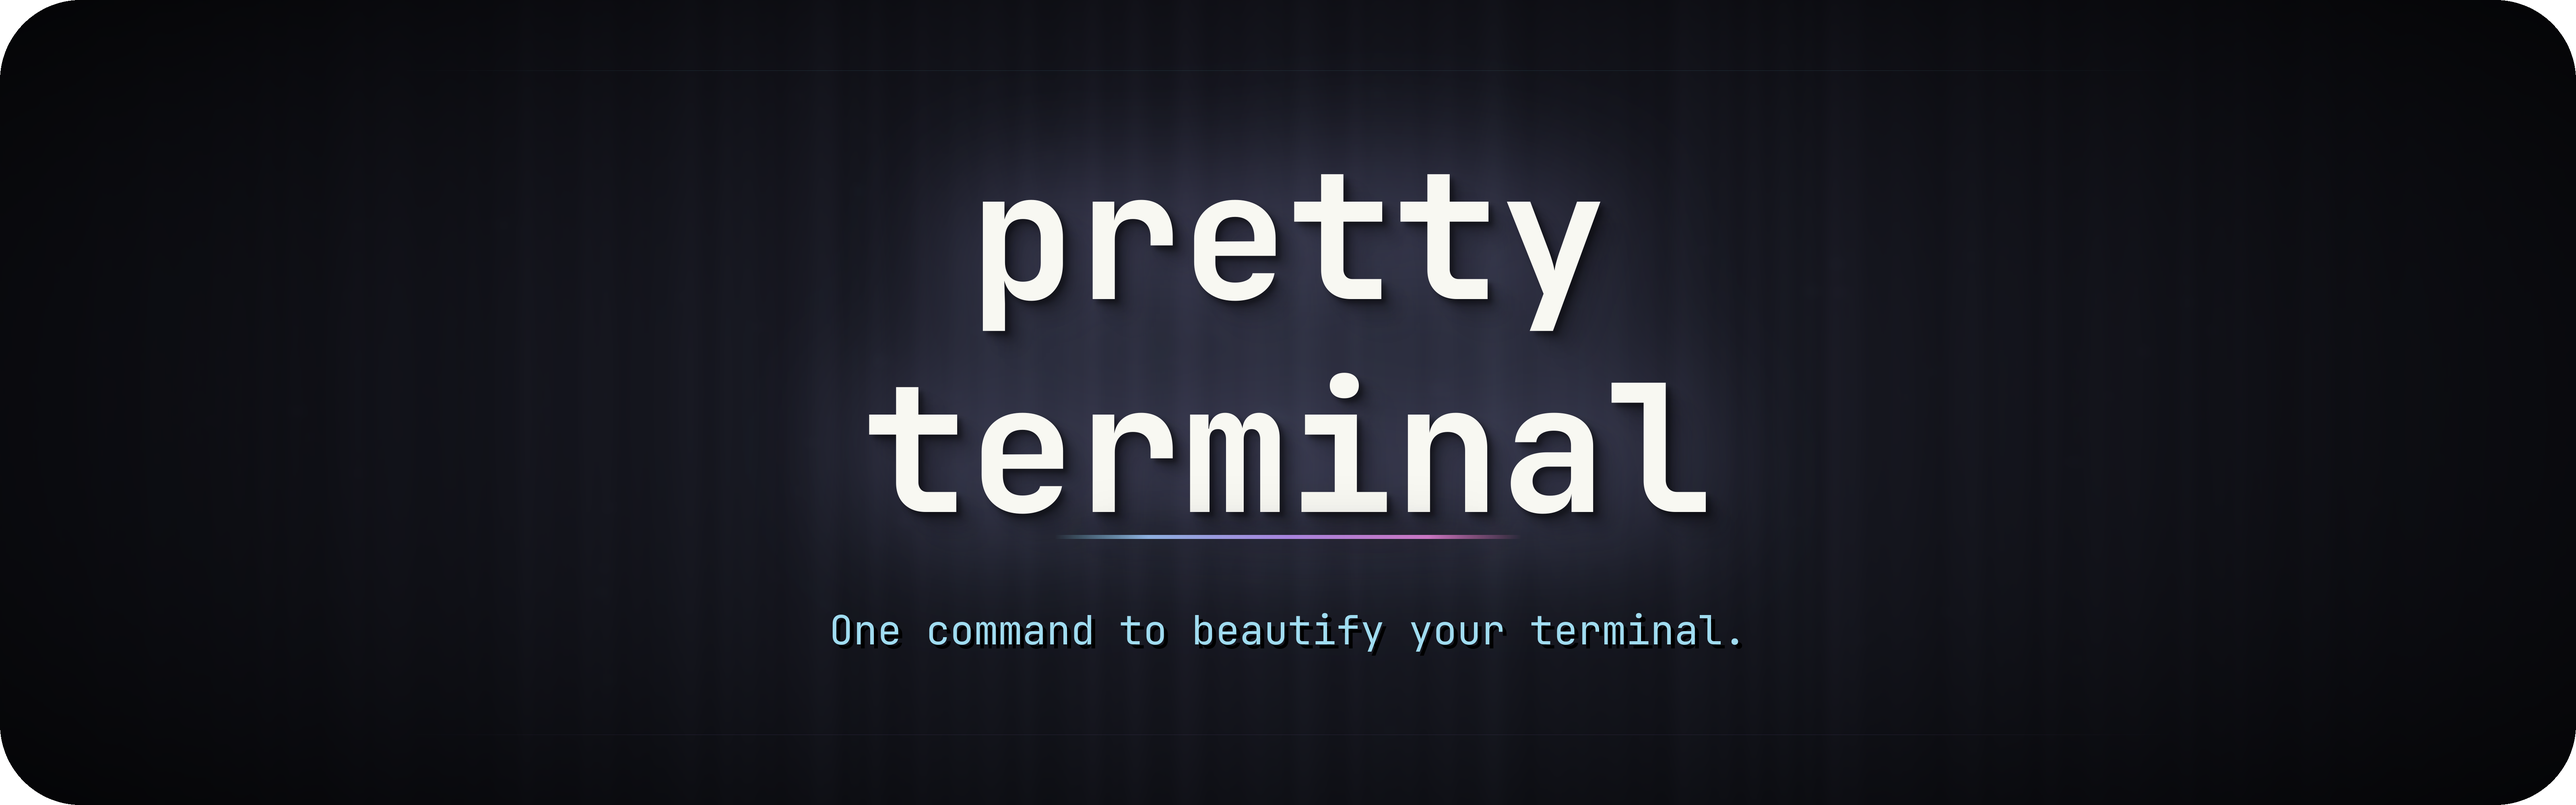
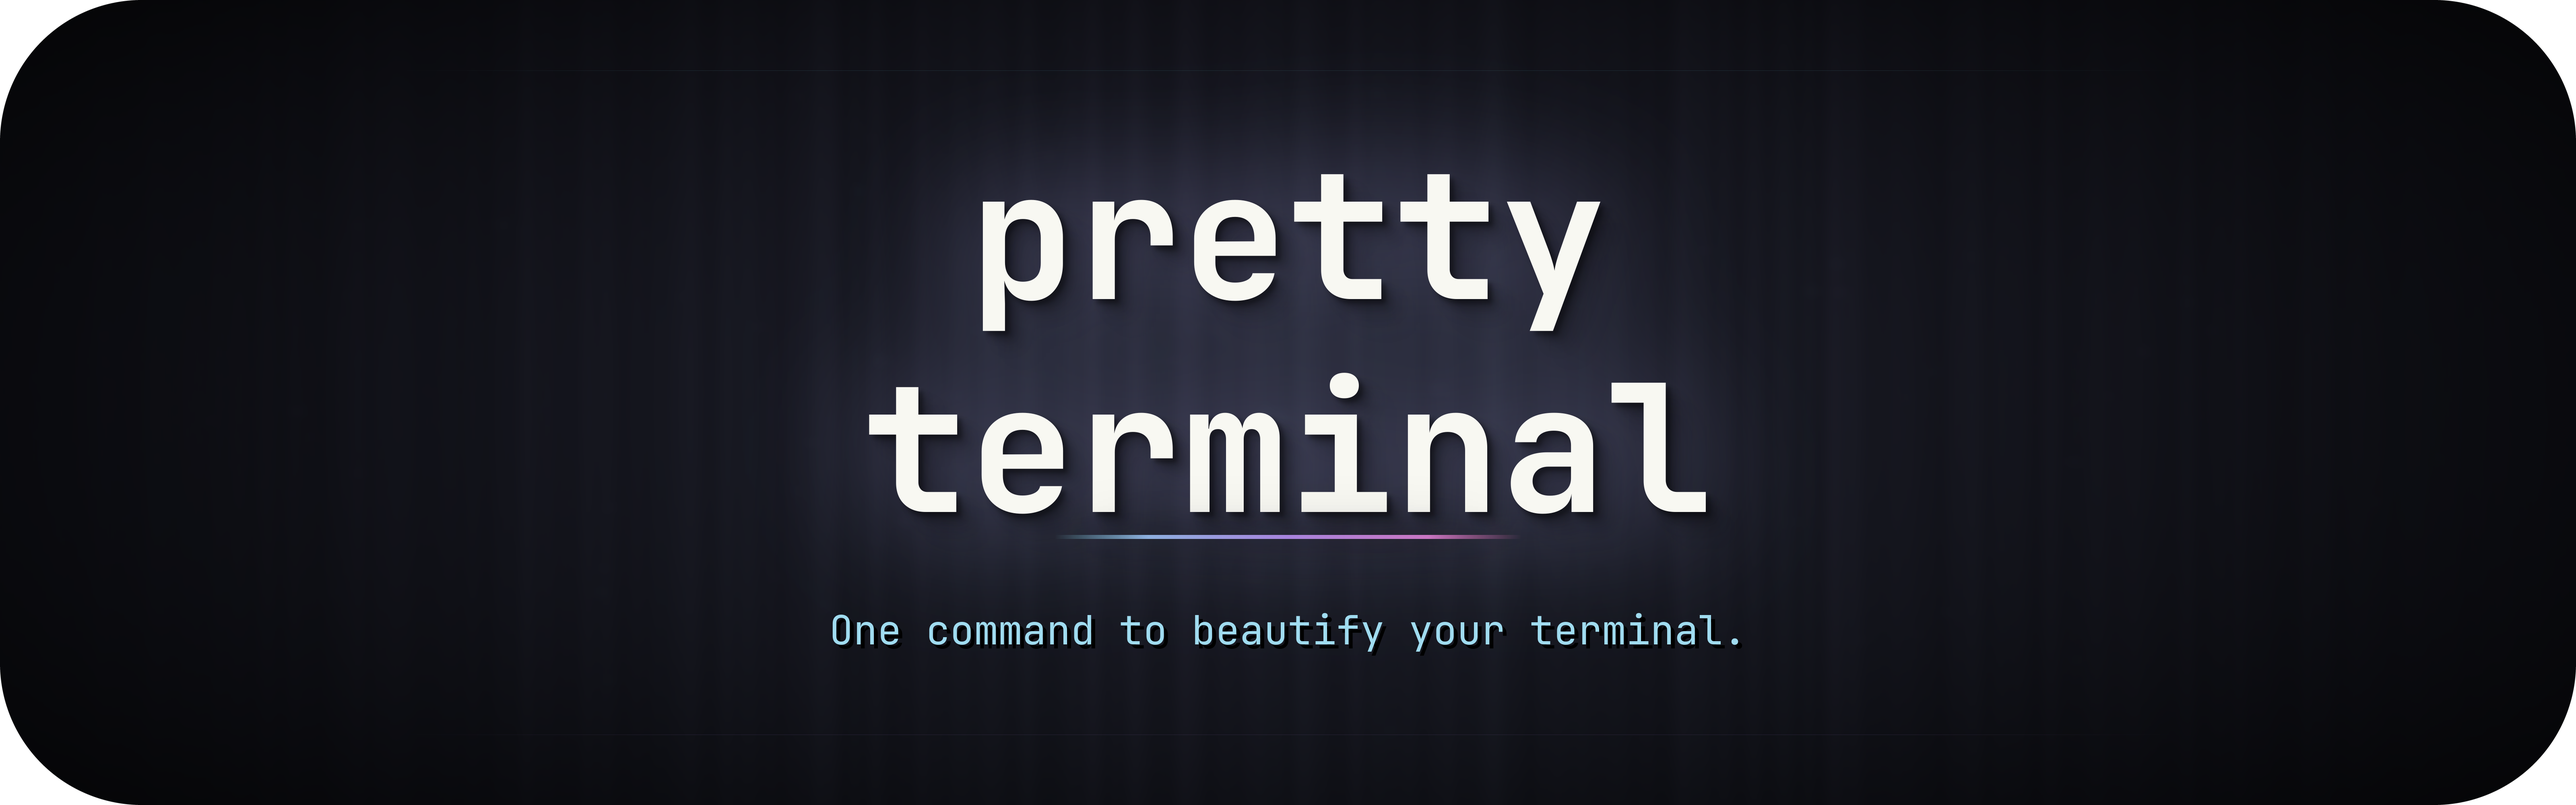
Redesign READMEs with rounded cover and Apple Silicon guide
Centered hero with a rounder cover (corner radius 2.8% -> 5.5% of width),
badge row, component table, emoji section labels and footer navigation in
both English and Korean. Add an Apple Silicon section (Rosetta re-launch,
native Homebrew first, x86_64 eza replacement) and an arm64 check to the
LLM quick-start prompt.

diff --git a/README.md b/README.md
@@ -1,25 +1,58 @@
+<a id="top"></a>
+
 <p align="center">
-  <img src="cover.png" alt="pretty-terminal" width="100%">
+  <img src="cover.png" alt="pretty-terminal: one command to beautify your terminal" width="100%">
 </p>
 
-# pretty-terminal
+<h1 align="center">pretty-terminal</h1>
 
-One command to make your terminal beautiful. Works on macOS, Windows, and Linux.
+<p align="center">
+  <em>One command to make your terminal beautiful. Works on macOS, Windows, and Linux.</em>
+</p>
 
-> **English** | [한국어](README.ko.md)
+<p align="center">
+  <b>English</b> | <a href="README.ko.md">한국어</a>
+</p>
 
-## What You Get
+<p align="center">
+  <a href="#quick-start"><b>Quick Start</b></a> ·
+  <a href="#what-you-get">What You Get</a> ·
+  <a href="#apple-silicon">Apple Silicon</a> ·
+  <a href="#customization">Customization</a> ·
+  <a href="#troubleshooting">Troubleshooting</a>
+</p>
 
-- **JetBrainsMono Nerd Font** — Beautiful monospace font with icon support (or D2CodingLigature Nerd Font Mono for Korean)
-- **eza** — Modern, colorful file listing with icons and tree view
-- **Oh My Zsh + Powerlevel10k** (macOS/Linux) — Clean, minimal prompt with git status
-- **Oh My Posh** (Windows) — Modern shell prompt with themes
+<p align="center">
+  <a href="https://github.com/wjgoarxiv/pretty-terminal"><img src="https://img.shields.io/github/stars/wjgoarxiv/pretty-terminal?style=flat-square&logo=github" alt="GitHub stars"></a>
+  <a href="./LICENSE"><img src="https://img.shields.io/github/license/wjgoarxiv/pretty-terminal?style=flat-square" alt="License"></a>
+  <img src="https://img.shields.io/badge/platform-macOS%20%7C%20Linux%20%7C%20Windows-blue?style=flat-square" alt="Platforms: macOS, Linux, Windows">
+  <img src="https://img.shields.io/badge/Apple%20Silicon-native%20arm64-black?style=flat-square&logo=apple&logoColor=white" alt="Apple Silicon: native arm64">
+</p>
+
+---
+
+<a id="what-you-get"></a>
+
+## ✨ What You Get
+
+| Component | What it adds |
+|-----------|--------------|
+| 🔤 **JetBrainsMono Nerd Font** | Beautiful monospace font with icon support (or D2CodingLigature Nerd Font Mono for Korean) |
+| 📂 **eza** | Modern, colorful file listing with icons and tree view |
+| 🐚 **Oh My Zsh + Powerlevel10k** (macOS/Linux) | Clean, minimal prompt with git status |
+| 🪟 **Oh My Posh** (Windows) | Modern shell prompt with themes |
+| 🍎 **Native on Apple Silicon** | Always installed as arm64, never x86_64 |
 
 <p align="center">
   <img src="preview.png" alt="Before and After" width="100%">
 </p>
 
-## Quick Start
+<a id="quick-start"></a>
+
+## 🚀 Quick Start
+
+> [!IMPORTANT]
+> **On an Apple Silicon Mac, everything is installed as native arm64 — never x86_64.** See [Apple Silicon](#apple-silicon).
 
 ### Using an LLM (Recommended)
 
@@ -27,6 +60,7 @@ Paste this into Claude, ChatGPT, or any AI assistant:
 
 ```
 Clone https://github.com/wjgoarxiv/pretty-terminal to my home directory and run the installer for my operating system.
+On an Apple Silicon Mac, run it natively: uname -m must print arm64, never x86_64.
 ```
 
 The AI will handle the rest automatically.
@@ -47,7 +81,28 @@ git clone https://github.com/wjgoarxiv/pretty-terminal.git $HOME\pretty-terminal
 
 After installation, restart your terminal.
 
-## What Gets Installed
+<a id="apple-silicon"></a>
+
+## 🍎 Apple Silicon
+
+On an Apple Silicon Mac the installer never sets up x86_64 binaries. It detects Apple Silicon from the hardware, not from the shell's architecture, so a Rosetta terminal does not lead to an Intel install.
+
+| Situation | What `install.sh` does |
+|-----------|------------------------|
+| Started from a Rosetta (x86_64) terminal | Re-launches itself with `arch -arm64` before installing anything |
+| Native Homebrew in `/opt/homebrew` exists | Puts it first in `PATH` for the installer run, even if an Intel Homebrew is also installed |
+| Only Intel Homebrew in `/usr/local` exists | Stops and asks you to install native Homebrew |
+| An x86_64 `eza` is already installed | Replaces it with a native build instead of skipping it |
+| Linux, Intel Macs, Windows | Nothing changes |
+
+Check your setup:
+
+```bash
+uname -m           # must print arm64
+brew --prefix      # should print /opt/homebrew
+```
+
+## 📦 What Gets Installed
 
 | Component | macOS | Linux | Windows |
 |-----------|:-----:|:-----:|:-------:|
@@ -57,7 +112,7 @@ After installation, restart your terminal.
 | Powerlevel10k | ✓ | ✓ | — |
 | Oh My Posh | — | — | ✓ |
 
-## Supported Terminals
+## 🖥 Supported Terminals
 
 - **macOS**: iTerm2, Ghostty (automatic config), Terminal.app (font auto-applied via AppleScript). Other terminals: set font manually in preferences.
 - **Linux**: Ghostty (automatic config applied); for GNOME Terminal, Konsole, and other terminals, set JetBrainsMono Nerd Font manually in your terminal preferences
@@ -65,7 +120,7 @@ After installation, restart your terminal.
 
 The installer detects your OS and installs components compatible with your system.
 
-## Installation Options
+## 🎛 Installation Options
 
 The installer provides these options (add as flags to `install.sh` or `install.ps1`):
 
@@ -88,7 +143,7 @@ bash ~/pretty-terminal/install.sh --font d2coding    # Use Korean font
 & $HOME\pretty-terminal\install.ps1 -Font d2coding   # Use Korean font
 ```
 
-## What the Installer Does
+## ⚙ What the Installer Does
 
 ### On macOS / Linux
 
@@ -110,7 +165,7 @@ bash ~/pretty-terminal/install.sh --font d2coding    # Use Korean font
 3. **Installs eza via Scoop**
 4. **Registers font in Windows registry** for system-wide availability
 
-## Uninstall
+## 🧹 Uninstall
 
 To restore your original terminal configuration:
 
@@ -126,7 +181,15 @@ bash ~/pretty-terminal/install.sh --uninstall
 
 This restores backed-up configs and removes installed packages (if you choose).
 
-## Troubleshooting
+<a id="troubleshooting"></a>
+
+## 🩺 Troubleshooting
+
+### x86_64 tools on Apple Silicon
+
+1. Check the terminal: `uname -m` must print `arm64`
+2. Check the tool: `file "$(command -v eza)"` must mention `arm64`
+3. If either fails, open a native (non-Rosetta) terminal and rerun the installer; it replaces an x86_64 `eza` with a native build
 
 ### Font not showing in terminal
 
@@ -155,7 +218,9 @@ chmod +x ~/pretty-terminal/install.sh
 bash ~/pretty-terminal/install.sh
 ```
 
-## Customization
+<a id="customization"></a>
+
+## 🎨 Customization
 
 ### eza Aliases
 
@@ -180,14 +245,14 @@ p10k configure
 
 This opens an interactive configuration wizard for customizing your prompt.
 
-## System Requirements
+## 📋 System Requirements
 
-- **macOS**: 10.14+ (on Apple Silicon the installer always runs as arm64: it re-launches itself natively when started under Rosetta, prefers Homebrew in `/opt/homebrew` over an Intel one in `/usr/local`, and replaces an x86_64 `eza`)
+- **macOS**: 10.14+ (Apple Silicon: native arm64 only, see [Apple Silicon](#apple-silicon))
 - **Linux**: Ubuntu 18.04+, Fedora 32+, Arch, or compatible distro
 - **Windows**: Windows 10 21H2+ (Windows 11 recommended)
 - **Bash/Zsh** (macOS, Linux) or **PowerShell 7+** (Windows)
 
-## Contributing
+## 🤝 Contributing
 
 Found an issue? Have a suggestion?
 
@@ -195,9 +260,19 @@ Found an issue? Have a suggestion?
 2. Open a new issue with details about your OS and terminal
 3. Include the output of `bash ~/pretty-terminal/install.sh` or `& $HOME\pretty-terminal\install.ps1`
 
-## License
+## 📄 License
 
 MIT License — see LICENSE file for details.
+
+---
+
+<p align="center">
+  <a href="#top">Back to top</a> ·
+  <a href="#quick-start">Quick Start</a> ·
+  <a href="#troubleshooting">Troubleshooting</a> ·
+  <a href="https://github.com/wjgoarxiv/pretty-terminal/issues">Issues</a> ·
+  <a href="./LICENSE">License</a>
+</p>
 
 ---
 
